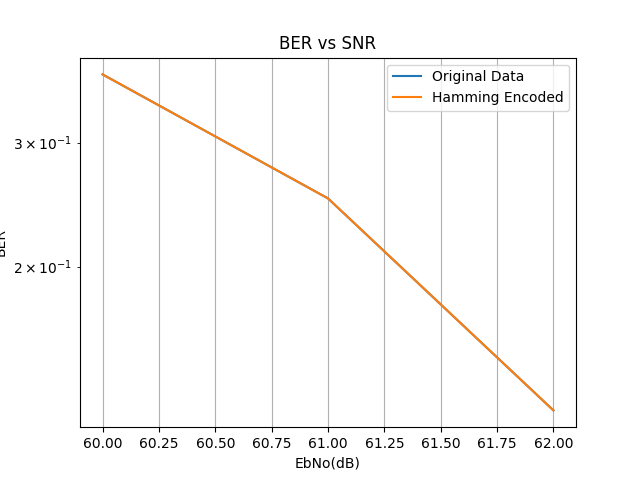
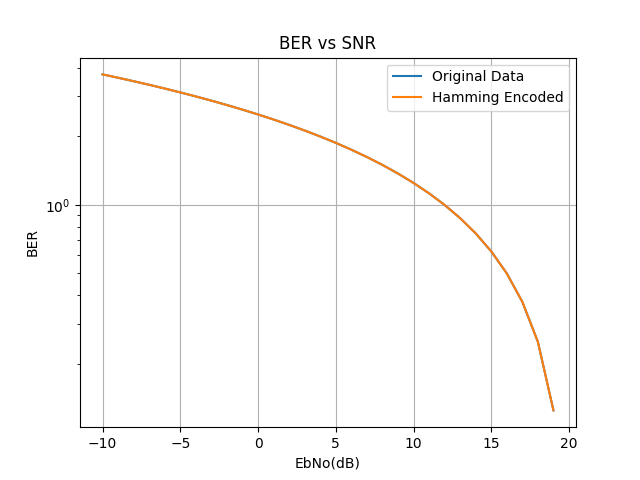
Finale!

diff --git a/Python/JointCode.py b/Python/JointCode.py
@@ -5,8 +5,14 @@
 import matplotlib.pyplot as plt
 import numpy as np
 import pandas as pd
-from commpy.channelcoding import Trellis, conv_encode, turbo_encode, get_ldpc_code_params
 import string
+
+# Transmission simulation
+from commpy.channelcoding import Trellis, conv_encode, turbo_encode, get_ldpc_code_params # encoders
+from commpy.channelcoding import viterbi_decode, map_decode, turbo_decode, ldpc_bp_decode # decoders
+from commpy.modulation import PSKModem, Modem
+from commpy.channels import awgn
+from commpy.utilities import hamming_dist, signal_power
 # Importing premade functions that will help clean the code
 from FuncAndClass import *
 # Importing tools for benchmarking
@@ -25,9 +31,10 @@ for z in range(1):
     df = pd.read_csv("Datasets/IOT-temp.csv")    
     temps = pd.Series(df['temp'])
     dataNo = np.random.randint(1,97600)
-    data = temps[dataNo]
-    byteData = data.tobytes()
-    # byteData = bytes(data, 'utf-8')
+    #data = temps[dataNo]
+    data = strData
+    #byteData = data.tobytes()
+    byteData = bytes(data, 'utf-8')
 
     # How many compression techniques do we want to use 
     noOfSources = 6
@@ -40,16 +47,19 @@ for z in range(1):
     deCompAlgo = [returnIt, huffDecomp, inflate, LZMADeComp, zstdDeComp, bzipDecomp] # Functions for decompression techniques we use
     sourceCodes=[0] * noOfSources 
     decodedCodes=[0] * noOfSources
-
+    sigPower = [0] * noOfSources
     # data that will help with comparision of channel codes
     channelNames = ["Original", "Hamming"]
     channelAlgo = [hammingEnc] # Functions for the channel codes we use
     deChannelAlgo = [hammDec] # Functions for the channel codes we use
     channelCodes=[0] * noOfChannels 
     decodedChannels=[0] * noOfChannels
-
+    BER=[0] * noOfChannels
+    rate = [0] * noOfChannels
     # Tracking for benchmarking
     timeEn = [0.0] * noOfSources ; timeDe = [0.0] * noOfSources ; flopsEn = [0.0] * noOfSources; flopsDe = [0.0] * noOfSources
+
+  
 
     # Benchmarking encoding of compression
     for i in range(noOfSources):
@@ -74,6 +84,7 @@ for z in range(1):
         timeStop = perf_counter_ns()
         timeDe[i] = timeStop - timeStart
         
+
         '''
         #Number of Flops 
         papi_high.flops()
@@ -82,27 +93,35 @@ for z in range(1):
         flopsDe[i] = result.mflops
         papi_high.stop_counters()
         '''    
+
+    for i in range (0, noOfSources):
+        M = 16
+        mod=PSKModem(M)
+        sigPower[i]=signal_power(np.array(list(sourceCodes[i]), dtype=int))
     
     print("Normally our code would be of size ", len(sourceCodes[0])) ; print("")
     for i in range(0, noOfSources):
+        if decodedCodes[i] != decodedCodes[0]:
+            print('There is an error in', sourceNames[i])
+            print(decodedCodes[i])
+            print(decodedCodes[0])
+            print("")
         print("Using ", sourceNames[i], " The size is ", str(len(sourceCodes[i])) + ":")
         print("Compression ratio of " , len(sourceCodes[0])/len(sourceCodes[i]))
         print("The time taken to compress", timeEn[i])
         print("The time taken to decompress", timeDe[i])
         print("Number of FLOPS to compress", flopsEn[i])
         print("Number of FLOPS to decompress", flopsDe[i])
+        # print("Estimated Saved Energy", (sigPower[0] - sigPower[i]) * 100)
         print("\n")
         # plotting for better visuals
         plt.bar(sourceNames[i], len(sourceCodes[i]), align='center')
         plt.title('Data size comparison')
-        plt.savefig('CompSize/Source_Comparison'+str(z)+'.png', format='png')
+        plt.savefig('CompSize/Source_Comparison'+str(z)+'.png', transparent=True, format='png')
     plt.show()
     plt.close()
-
-    for i in range(0,noOfSources): sourceCodes[i] = np.array(list(sourceCodes[i]),dtype=int)
-
-
-
+    
+    '''
     sourceData = sourceCodes[1]
     # Benchmarking encoding of channel codes
     for i in range(noOfChannels):
@@ -112,75 +131,85 @@ for z in range(1):
         timeStop = perf_counter_ns()
         timeEn[i] = timeStop - timeStart
 
-        '''
+        
         #Number of Flops 
-        papi_high.Flops() 
-        result = papi_high.flops(rtime=0,ptime=0,flpops=0,mflops=0)
-        flopsEn[i] = result.mflops
-        papi_high.stop_counters()
-        '''        
+        #papi_high.Flops() 
+        #result = papi_high.flops(rtime=0,ptime=0,flpops=0,mflops=0)
+        #flopsEn[i] = result.mflops
+        #papi_high.stop_counters()      
+        
+        rate[i] = 1/2
 
+        M = 64
+        mod=PSKModem(M)
+        channelCodes[i]=mod.modulate(channelCodes[i])
+        
     # Benchmarking decoding of channel codes
     for i in range(noOfChannels):
         # Add error cuz
-        error = np.random.randint(1, len(channelCodes[i]))
-        channelCodes[i][error] = int(not channelCodes[i][error])
-        
+        SNR = 10   
+        print(len(channelCodes[i]))
+        print(len(sourceData))
+        channelCodes[i] = awgn(channelCodes[i], SNR, rate=rate[i])
+        channelCodes[i] = mod.demodulate(channelCodes[i], 'hard')
+
         # Time taken to compress
         timeStart = perf_counter_ns()
         decodedChannels[i] = deChannelAlgo[i](channelCodes[i])
         timeStop = perf_counter_ns()
         timeEn[i] = timeStop - timeStart
         
-        '''
         #Number of Flops 
-        papi_high.Flops() 
-        result = papi_high.flops(rtime=0,ptime=0,flpops=0,mflops=0)
-        flopsEn[i] = result.mflops
-        papi_high.stop_counters()
-        '''        
-
+        #papi_high.Flops() 
+        #result = papi_high.flops(rtime=0,ptime=0,flpops=0,mflops=0)
+        #flopsEn[i] = result.mflops
+        #papi_high.stop_counters()
+        
+        print(decodedChannels[i])
+        print(sourceData)
+        numErrs = hamming_dist(decodedChannels[i], sourceData)
+        BER[i]=numErrs/len(sourceData)
+        
     print("")
     for i in range(noOfChannels):    
-        if sorted(decodedChannels[i]) == sorted(sourceData):
-            print("decoded properly")
         print("Using ", channelNames[i+1], " The size is ", str(len(channelCodes[i])) + ":")
         print("Channel rate" , len(channelCodes[i])/len(sourceData))
+        print("Bit Error Rate", BER[i])
         print("The time taken to encode", timeEn[i])
         print("The time taken to decoded", timeDe[i])
         print("Number of FLOPS to encode", flopsEn[i])
         print("Number of FLOPS to decode", flopsDe[i])
         print("\n")
-
-
-
+    
     '''
-    # Transmission
-    for i in range(1, noOfSources):
-        # hamming code
-        origData = sourceCodes[0]
-        hammData = hammingEnc(sourceCodes[i])
-        # LDPCData = get_ldpc_code_params(sourceCodes[i])
-        # classTrellis(memory, g_matrix, feedback=0, code_type='default')
-        # convData = conv_encode(sourceCodes[i], trellis, termination='term', puncture_matrix=None)
-        # turboData = turbo_encode(sourceCodes[i], trellis1, trellis2, interleaver)
+    #Transmission
+    #for i in range(0, noOfSources):
+    i=1
+    # hamming code
+    origData = np.array(list(sourceCodes[0]), dtype=int)
+    hammData = hammingEnc(sourceCodes[i])
+    # LDPCData = get_ldpc_code_params(sourceCodes[i])
+    # classTrellis(memory, g_matrix, feedback=0, code_type='default')
+    # convData = conv_encode(sourceCodes[i], trellis, termination='term', puncture_matrix=None)
+    # turboData = turbo_encode(sourceCodes[i], trellis1, trellis2, interleaver)
 
-        EbNo = np.arange(60, 63)
-        plt.xlabel('EbNo(dB)')
-        plt.ylabel('BER')
-        plt.title('BER vs SNR')
-        plt.yscale('log')
-        plt.grid(True)
+    EbNo = np.arange(-40, 10)
+    plt.xlabel('EbNo(dB)')
+    plt.ylabel('BER')
+    plt.title('BER vs SNR')
+    plt.yscale('symlog')
+    plt.grid(True)
 
-        print(sourceNames[i]+ ':')
-        monteTransmit(EbNo, origData, byteData)
-        recieveArr = monteTransmit(EbNo, hammData, byteData, 1, i)
-        # recieveArr = monteTransmit(EbNo, dict(subString.split("=") for subString in sourceCodes[i].split(";")) + LDPCData, LDPCData, 2)
-        # recieveArr = monteTransmit(EbNo, convData, sourceCodes[i], 3)
-        # recieveArr = monteTransmit(EbNo, turboData, sourceCodes[i], 4)
-        plt.legend()
-        plt.savefig('BERSNR/' + sourceNames[i] + '/BERSNR_Comparison'+str(z)+'.png', format='png')
-        plt.show()
-        plt.close()
-        print("")
-    '''
+    print(sourceNames[i]+ ':')
+    # monteTransmit(EbNo, origData, decodedCodes[0])
+    recieveArr = monteTransmit(EbNo, hammData, decodedCodes[i], 1, i)
+    # recieveArr = monteTransmit(EbNo, dict(subString.split("=") for subString in sourceCodes[i].split(";")) + LDPCData, LDPCData, 2)
+    # recieveArr = monteTransmit(EbNo, convData, sourceCodes[i], 3)
+    # recieveArr = monteTransmit(EbNo, turboData, sourceCodes[i], 4)
+    plt.legend()
+    plt.savefig('BERSNR/' + sourceNames[i] + '/BERSNR_Comparison'+str(z)+'.png', transparent=True, format='png')
+    plt.show()
+    plt.close()
+    print("")
+    
+

diff --git a/Python/FuncAndClass.py b/Python/FuncAndClass.py
@@ -12,21 +12,26 @@ import bz2 # bzip2 compression
 import zstandard # ZSTD compression
 
 # Importing the tools need from the commPy library
-from commpy.modulation import QAMModem, Modem
+from commpy.modulation import PSKModem, Modem
 from commpy.channels import awgn
 from commpy.channelcoding import viterbi_decode, map_decode, turbo_decode, ldpc_bp_decode
+from commpy.utilities import hamming_dist
 
 # To help with error correction
 from functools import reduce; from operator import xor 
 
 # Global Variables
-totWithHammSize = 8
-noHammSize = 4
+totWithHammSize = 64
+noHammSize = 57
 
 # Conversion to and from binary
 def binIt(arr):
     # Load data as bytes if its not otherwise continue
-    if type(arr) != bytes: arr = bytes(arr, 'utf-8')
+    if type(arr) != bytes: 
+        if type(arr) != str:
+            arr = bytes(str(arr), 'utf-8')
+        else:
+            arr = bytes(str(arr), 'utf-8')
     arr = bin(int.from_bytes(arr, byteorder='big'))[2:]
     return arr
 
@@ -260,7 +265,6 @@ def LZWDec(data, code_width=12):
     dataInt = int(data,2)
     data=dataInt.to_bytes((dataInt.bit_length() + 7) // 8, byteorder='big')
     data = bytearray(data)
-    print(data)
     maximum_table_size = pow(2,int(code_width))
     # Default values in order to read the compressed file
     compressed_data = []
@@ -315,6 +319,7 @@ def deflate(data, compresslevel=9):
 def inflate(data):
     dataInt = int(data,2)
     data=dataInt.to_bytes((dataInt.bit_length() + 7) // 8, byteorder='big')
+    
     decompress=zlib.decompressobj(-zlib.MAX_WBITS)
     data=decompress.decompress(data)
     data += decompress.flush()
@@ -367,6 +372,13 @@ def bzipDecomp(data):
 def hammingEnc(data):
     data = ''.join([str(i) for i in data])
     slicedStr=[]
+
+    global noHammSize 
+    global totWithHammSize
+    if noHammSize == 0:
+        noHammSize  = len(data)
+        totWithHammSize = noHammSize + calcRedundantBits(noHammSize)
+
     for i in range(noHammSize, len(data)+1, noHammSize):
         slicedStr.append(data[i-noHammSize:i])
     encodedStr=[]
@@ -381,8 +393,7 @@ def hammingEnc(data):
     doneArr=''.join(encodedStr)
     # In case your data is not equal to your channel rate
     if len(data) % noHammSize != 0:
-        print("extras")
-        doneArr+=data[:-(len(data)%noHammSize)]
+        doneArr+=data[len(data)-(len(data)%noHammSize):]
     # Data to be transferred
     doneArr=np.array(list(doneArr), dtype=int)
     return doneArr
@@ -450,19 +461,22 @@ def hammDec(recArr):
             # remove any parity bits
             decodedArr=remParityBits(arr)
             decodedStr.append(decodedArr)
+    if len(recArr) % noHammSize != 0:
+        uncodedData = recArr[len(recArr)-(len(recArr)%noHammSize):]
+        uncodedData = np.array(list(uncodedData), dtype=int)
+        decodedStr.append(uncodedData)
     finalArr=[j for i in decodedStr for j in i]
     return finalArr #, extraError
 
 def remParityBits(arr):
     # remove parity bits
     k=0
-    decodedArr=[]
+    decodedArr = []
     for i in range(1, len(arr)):
-        if i != 2**k:
-            decodedArr.append(arr[i])
-            k += 1
+        if i == 2**k: k += 1
+        else: decodedArr.append(arr[i])
     decodedArr=decodedArr[1:]
-    return decodedArr
+    return arr
 
 # Transmittion
 def monteTransmit(EbNo, transArr, sourceData, code=0, source=0):
@@ -470,22 +484,23 @@ def monteTransmit(EbNo, transArr, sourceData, code=0, source=0):
     M=64
     numErrs=0
     answer=""
+    sourceData = binIt(sourceData)        
+    sourceData=''.join([str(i) for i in sourceData])
+    sourceData = np.array(list(sourceData), dtype=int)
     for i in range(0, len(EbNo)):
         SNR=EbNo[i]
         # Simulating data transmission over a channel
-        mod=QAMModem(M)
-
-        # Stimulate error in transmission by adding gaussian noise
+        mod=PSKModem(M)
         modArr=mod.modulate(transArr)
-
+        # recieving and decoding data
         if code == 1:
             answer='Hamming Encoded'
-            modArr=mod.modulate(transArr)
-            rateHamming=noHammSize/totWithHammSize
+            r = totWithHammSize - noHammSize
+            rateHamming= 1-(r/(2**r -1))
             recieveArr=awgn(modArr, SNR, rate=rateHamming)
             demodArr=mod.demodulate(recieveArr, 'hard')
             decodedData=hammDec(demodArr)
-            decodedData=''.join(str(i) for i in decodedData)
+            decodedData=''.join([str(i) for i in decodedData])
 
         elif code == 2:
             rateLDPC=len(sourceData)/len(demodArr)
@@ -523,11 +538,12 @@ def monteTransmit(EbNo, transArr, sourceData, code=0, source=0):
             answer='Original Data'
             recieveArr=awgn(modArr, SNR, rate=1)
             demodArr=mod.demodulate(recieveArr, 'hard')
-            decodedData=''.join(str(i) for i in demodArr)
-
+            decodedData=''.join([str(i) for i in demodArr])
+            decodedData = np.array(list(decodedData), dtype=int)
         deCompAlgo = [returnIt, huffDecomp, inflate, LZMADeComp, zstdDeComp, bzipDecomp] # Functions for decompression techniques we use
         if source != 0:       
             decodedData = deCompAlgo[source](decodedData)
+            decodedData = np.array(list(decodedData), dtype=int)
         numErrs += np.sum(decodedData != sourceData)
         BERarr[i]=numErrs/len(sourceData)
     plt.semilogy(EbNo[::-1], BERarr, label=answer)
